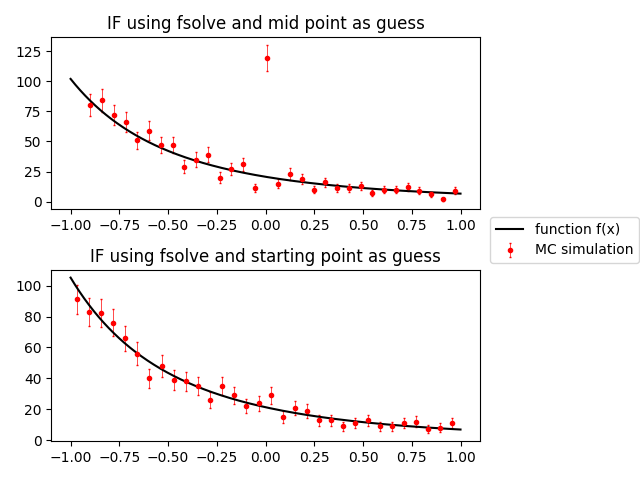
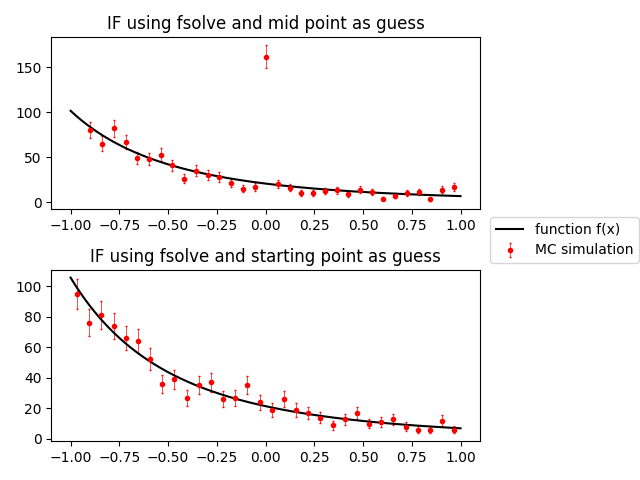
graphical impr. + log log fixed

diff --git a/Montecarlo/montecarlo_test.py b/Montecarlo/montecarlo_test.py
@@ -16,7 +16,7 @@ from gce import broken_pl, log_norm
 start_time = time.monotonic()
 
 
-exercise = 5      #to execute only one exercise at time
+exercise = 9     #to execute only one exercise at time
 #1 -2 : reproducing simple distribution sample 
 #3 : Rej-Acc method(1 sample)
 #4 : Rej-Acc method multiple sample
@@ -156,7 +156,11 @@ elif exercise == 3 :
         iter += 1 
 
     x = np.array(temp)
-    print("Iterations needed: ", iter)
+    end_time = time.monotonic()
+    ex_time = str(timedelta(seconds= end_time - start_time).total_seconds()) + " s"
+    print("Execution time:  (M =" ,   str(M) , ") :", timedelta(seconds= end_time - start_time))
+    title = "Iterations needed (M =  " + str(M) + ") :" +   str(iter)
+    print(title)
 
  #---------------------------------------------------------------------------------------------
   # Single plot
@@ -199,8 +203,10 @@ elif exercise == 3 :
         y_err = (y_n)**0.5                                              #error on counts
         ax1.errorbar(bin_means, y_n , yerr = y_err, color='r', capsize=1, capthick=1,ls='', elinewidth=0.5,marker='o',markersize=3, label = 'MC simulation')
         ax1.plot(draw, func_norm(draw, myfunc, x_min, x_max, sample_dim)* bin_dim, color = "black", label = "function f(x)")
-        title = "Rejection method (M = " + str(M) + ")"
+        title = "Rejection method (M = " + str(M) + ") - t_ex = " + ex_time
         ax1.set_title(title)
+
+        start_time = time.monotonic()
 
         temp = []
         counter = 0                     #counter of successfully selected points 
@@ -219,7 +225,11 @@ elif exercise == 3 :
             iter += 1 
 
         x = np.array(temp)
-        print("Iterations needed (M x 10): ", iter)
+        end_time = time.monotonic()
+        ex_time = str(timedelta(seconds= end_time - start_time).total_seconds()) + " s"
+        print("Execution time:  (M =" ,   str(M) , ") :", timedelta(seconds= end_time - start_time))
+        title = "Iterations needed (M =  " + str(M) + ") :" +   str(iter)
+        print(title)
 
         y_n, bin_edges = np.histogram(x, n_bins, density = False)
         bin_means = np.zeros(len(bin_edges)-1)
@@ -232,10 +242,12 @@ elif exercise == 3 :
         y_err = (y_n)**0.5                                              #error on counts
         ax2.errorbar(bin_means, y_n , yerr = y_err, color='r', capsize=1, capthick=1,ls='', elinewidth=0.5,marker='o',markersize=3)
         ax2.plot(draw, func_norm(draw, myfunc, x_min, x_max, sample_dim)* bin_dim, color = "black")
-        title = "Rejection method (M = " + str(M) + ")"
+        title = "Rejection method (M = " + str(M) + ") - t_ex = " + ex_time
         ax2.set_title(title)
 
         fig.legend(loc = 'center right',  borderaxespad=0.1,)
+        fig_title = "M dependance with N_sample = " + str(int(sample_dim)) + ", N_bins = " + str(n_bins)
+        plt.suptitle(fig_title)
         fig.tight_layout()
         plt.subplots_adjust(right = 0.75)
         plt.savefig(os.path.join("RAM_diff_M.png"))
@@ -605,8 +617,9 @@ elif exercise == 7 :
         y_n[step] +=1
 
     end_time = time.monotonic()
-    time1 = timedelta(seconds= end_time - start_time)
-    print("Execution time with n_bins= " , str(n_bins), " :" , time1)
+    time1 = timedelta(seconds= end_time - start_time).total_seconds()
+    printing = "Execution time with n_bins = " + str(n_bins) +  " :" + str(time1) + " s"
+    print(printing)
  #-----------------------------------------------
     #Single plot
     if not comparison:
@@ -659,8 +672,9 @@ elif exercise == 7 :
             y_n[step] +=1  
 
         end_time = time.monotonic()
-        time2 = timedelta(seconds= end_time - start_time)
-        print("Execution time with n_bins= " , str(n_bins), " :" , time2)
+        time1 = timedelta(seconds= end_time - start_time).total_seconds()
+        printing = "Execution time with n_bins = " + str(n_bins) +  " :" + str(time1) + " s"
+        print(printing)
 
         y_err = y_n ** 0.5
         ax2.plot(draw, y_draw/norm*sample_dim*bin_dim, color = "black")
@@ -768,7 +782,7 @@ elif exercise == 9:
     fig, (ax1, ax2, ax3) = plt.subplots(3)
 
  #-----------------------------------------------
-    sample_dim = 1.0e3                    #sample dimension
+    sample_dim = 1.0e4                   #sample dimension
     n_bins = round(sample_dim**0.5)         #number of bins
     bin_dim = (x_max - x_min) / n_bins      #bins width
 
